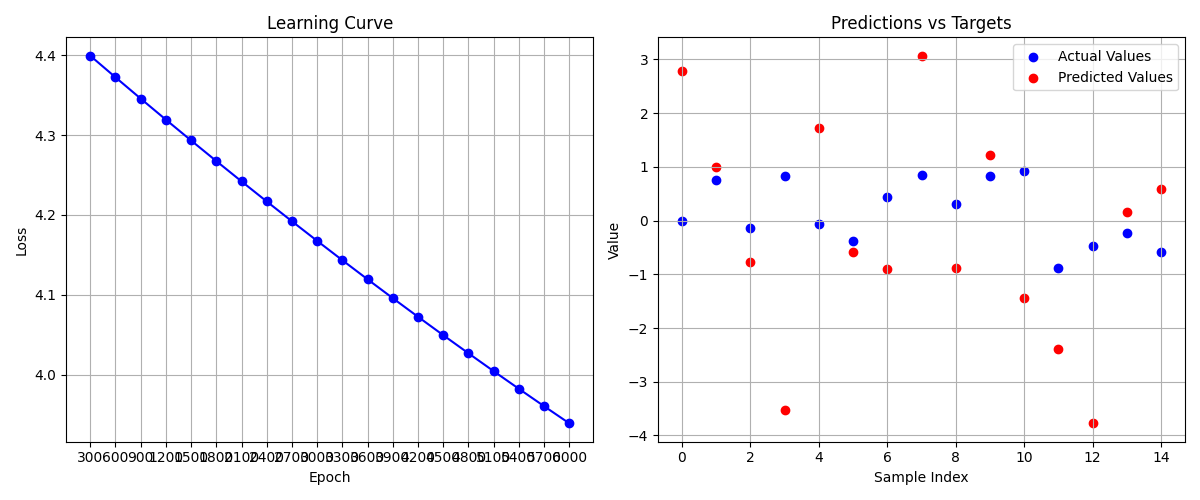
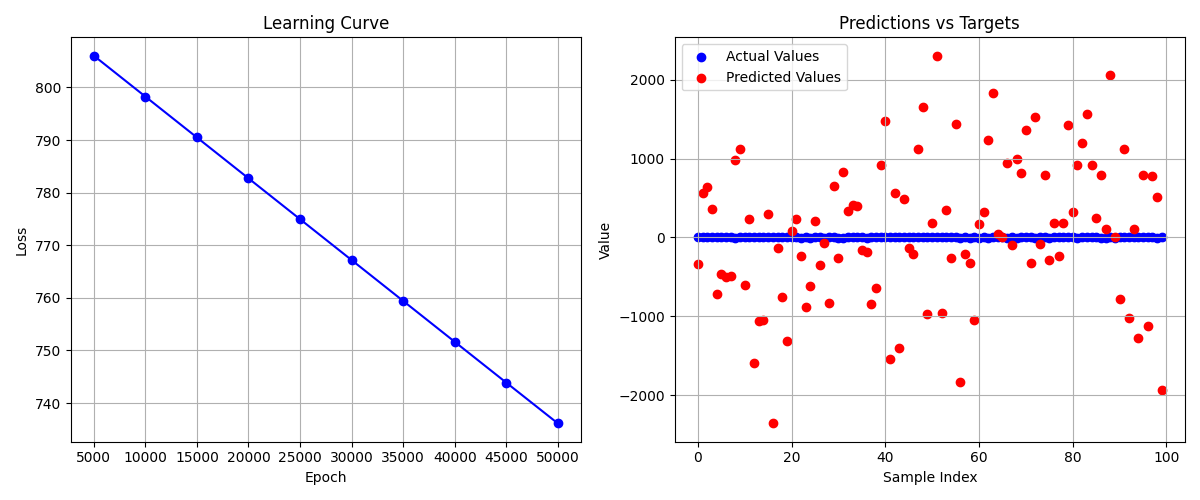
tested MLP

diff --git a/examples/mlp.py b/examples/mlp.py
@@ -1,49 +1,49 @@
-import axgrad
 import axgrad.nn as nn
-from axgrad.nn.modules import linear as F
-import matplotlib.pyplot as plt
+from axgrad.utils import randn
+from axgrad.nn import functional as F
 
 class MLP(nn.Module):
   def __init__(self, _in, _hid, _out, bias=False) -> None:
     super().__init__()
     self.layer1 = nn.Linear(_in, _hid, bias)
-    self.gelu = nn.GELU()
+    self.gelu = nn.Tanh()
     self.layer2 = nn.Linear(_hid, _out, bias)
-  
+
   def forward(self, x):
     out = self.layer1(x)
     out = self.gelu(out)
     out = self.layer2(out)
     return out
 
-model = MLP(20, 30, 1)
 
-# Generate random input and target tensors
-X = axgrad.tensor(axgrad.randn(shape=(15, 20)), requires_grad=True)  # Input tensor of shape (batch_size=15, features=20)
-Y = axgrad.tensor(axgrad.randn(shape=(15, 1)), requires_grad=True)  # Target tensor of shape (batch_size=15, 1)
+model = MLP(20, 10, 10)
+optimizer = nn.SGD(parameters=model.parameters(), lr=1e-2)
+x = randn(10, 20)
+y = randn(10, 10)
 
-optimizer = nn.SGD(parameters=model.parameters(), lr=2e-5)
-epoch = 6000
+epoch = 50000
 losses = []
 steps = []
 
 for n in range(1, epoch + 1):
-  out = model.forward(X)
-  loss = F.mse(out, Y)
-  
+  out = model.forward(x)
+  loss = F.mae(out, y)
+
   optimizer.zero_grad()
   loss.backward()
   optimizer.step()
 
-  if n % 300 == 0:
-    losses.append(loss.data[0])  # Store the loss
-    steps.append(n)  # Store the step
-    print(f"{n}th step, loss: {loss.data[0]:.6f}")
+  if n % 5000 == 0:
+    losses.append(loss.tolist())
+    steps.append(n)
+    print(f"{n}th step, loss: {loss.tolist():.6f}")
 
-# Plotting the learning curve
+import matplotlib.pyplot as plt
+
+y_list = y.flatten().tolist()
+out_list = out.flatten().tolist()
+
 plt.figure(figsize=(12, 5))
-
-# Learning curve
 plt.subplot(1, 2, 1)
 plt.plot(steps, losses, marker='o', linestyle='-', color='b')
 plt.title('Learning Curve')
@@ -52,11 +52,9 @@ plt.ylabel('Loss')
 plt.grid()
 plt.xticks(steps)
 
-# Predictions vs Targets
 plt.subplot(1, 2, 2)
-# Scatter plot for actual values (Y) and predicted values (out)
-plt.scatter(range(len(Y.F.data)), Y.F.data, color='b', label='Actual Values')  # Actual values in blue
-plt.scatter(range(len(out.F.data)), out.F.data, color='r', label='Predicted Values')  # Predicted values in red
+plt.scatter(range(y.size), y_list, color='b', label='Actual Values')  # Actual values in blue
+plt.scatter(range(out.size), out_list, color='r', label='Predicted Values')  # Predicted values in red
 plt.title('Predictions vs Targets')
 plt.xlabel('Sample Index')
 plt.ylabel('Value')

diff --git a/test.py b/test.py
@@ -1,31 +1,13 @@
 import axgrad.nn as nn
 from axgrad.utils import randn
 
-class MLP(nn.Module):
-  def __init__(self, _in, _hid, _out, bias=False) -> None:
-    super().__init__()
-    self.layer1 = nn.Linear(_in, _hid, bias)
-    self.gelu = nn.Tanh()
-    self.layer2 = nn.Linear(_hid, _out, bias)
-
-  def forward(self, x):
-    out = self.layer1(x)
-    out = self.gelu(out)
-    out = self.layer2(out)
-    return out
-
-model = MLP(20, 30, 10)
-mse = nn.MSELoss()
-
 x = randn(10, 20)
 y = randn(10, 10)
-
-yp = model(x)
-loss = mse(yp, y)
+linear = nn.Linear(20, 10)
+yp = linear(x)
+loss = ((y - yp) ** 2 / x.size).sum()
 loss.backward()
 
-print("input grads: ", x.grad)
-print("input grads: ", y.grad)
-
-print("w1 grad: ", model.layer1.weight.grad)
-print("w2 grad: ", model.layer2.weight.grad)
+print(x.grad)
+print(y.grad)
+print(linear.weight.grad)
